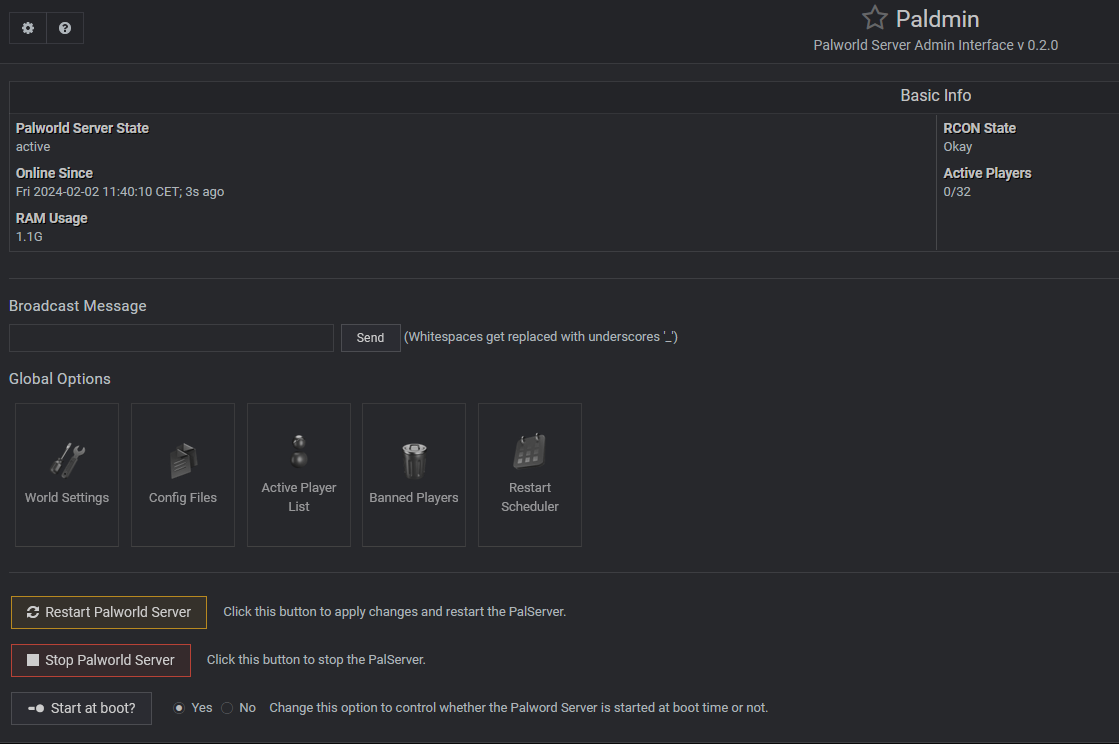
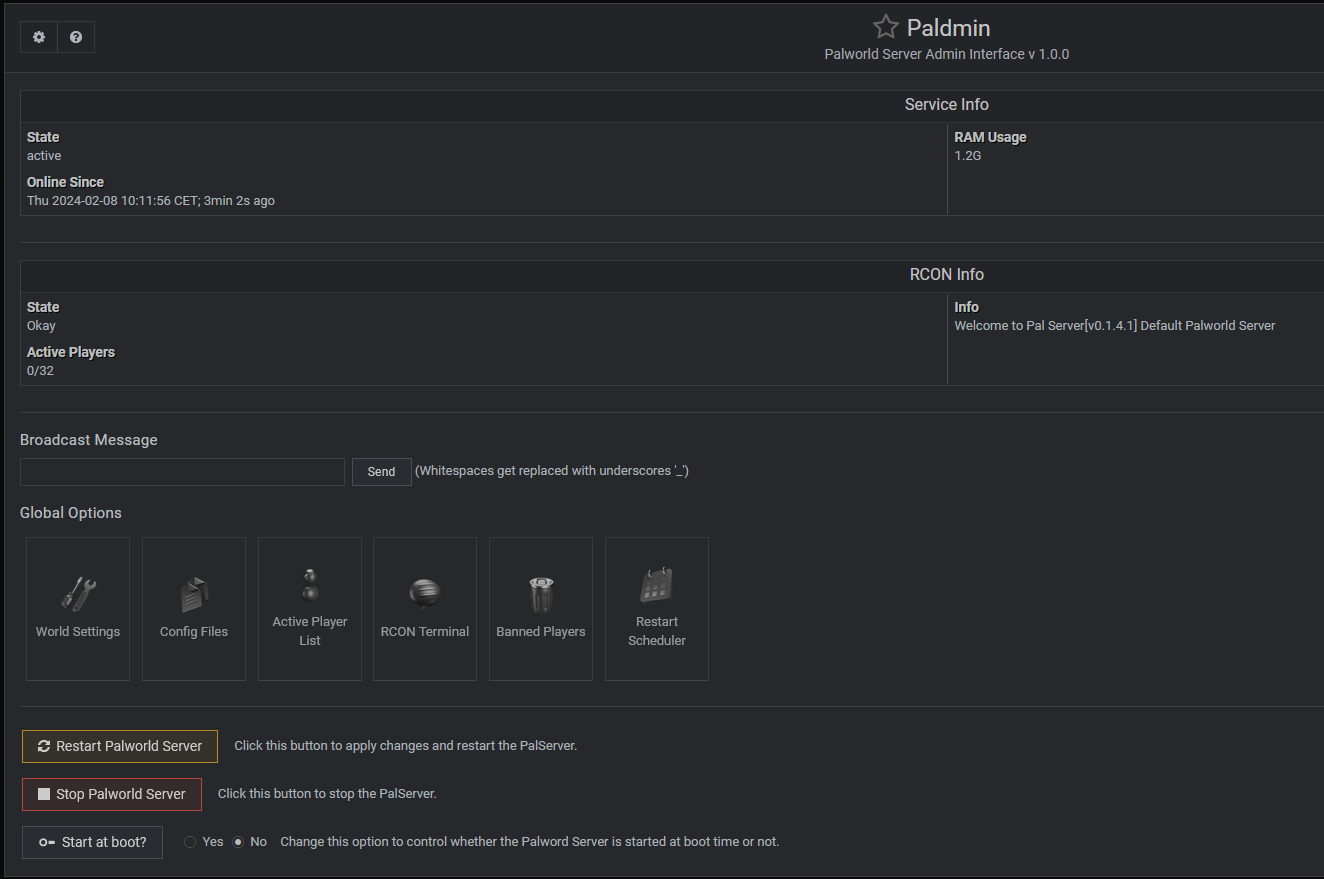
docs: README: Updated readme with update guide
docs: Install: Added new info about module configuration values

docs: Update: New documentation about updating module

diff --git a/docs/install.md b/docs/install.md
@@ -27,7 +27,7 @@ For some functions to work properly, an RCON client is necessary, which the Pald
 For the rcon-cli, we use [this](https://github.com/gorcon/rcon-cli) one from gorcon.
 
 1. Open a SSH Terminal to your server
-2. Login as the same user that hosts the Palworld Server, if you followed the linked tutorial this would be `steam`.
+2. Login as the same user that hosts the Palworld Server, if you followed the linked tutorial this would be `steam` and switch directory to your home `cd ~`.
 3. Go to [releases](https://github.com/gorcon/rcon-cli/releases) and download a suitable linux release:
 	- `wget https://github.com/gorcon/rcon-cli/releases/download/v0.10.3/rcon-0.10.3-amd64_linux.tar.gz`
 	- Unpack tarball `tar -xvf rcon-0.10.3-amd64_linux.tar.gz`
@@ -47,6 +47,8 @@ If you chose a different installation path or your environment changes, you can 
 | Paldmin config file | Webmin Config file for later use | `/etc/paldmin.conf` |
 | Daemon Service | The daemon service which is controlled by the module via `start`, `stop`, `restart` | `palworld.service` |
 | RCON directory | Path to the directory where the `rcon` executable is located | |
+| RCON Address | If set, paldmin will force-enable rcon (ignoring world settings) using this address | `From World Settings`
+| RCON Password | If set, paldmin will force-use the value for rcon password (ignoring world settings) | `From World Settings`
 
 
 

diff --git a/README.md b/README.md
@@ -6,6 +6,7 @@ A [Webmin](https://webmin.com/) module for easy configure and control of a Palwo
 * Basic Info
 * Edit PalWorldSettings.ini (or any other .ini file)
 * Full RCON Support (Kick / Ban Player, Broadcast, List Player, ...)
+	* With Terminal
 * Restart Scheduler with automated Announcements
 
 ![Screenshot of Paldmin](./docs/images/readme_01.PNG)
@@ -16,7 +17,6 @@ A [Webmin](https://webmin.com/) module for easy configure and control of a Palwo
 * Discord Bot Integration 
 * Restart Scheduler with RAM Usage
 * Set Backup Plan
-* Custom RCON command
 * List Player
 	* List / Download .sav File (hex GUID)
 * Savegame / SaveFile Editor
@@ -35,6 +35,10 @@ Please follow the [installation guide](./docs/install.md)
 ## Usage
 
 Please follow the [usage guide](./docs/usage.md)
+
+## Update Module
+
+Please follow the [update guide](./docs/update.md)
 
 ## FAQs
 

diff --git a/docs/update.md b/docs/update.md
@@ -1,0 +1,12 @@
+# Update
+
+> [!IMPORTANT]
+> Currently the module doesn't support _automatic update_ but is planned for future releases. _Manual update_ will delete your _module configuration_ and the _restart schedule_ has to be set again.
+
+## Manual Update
+
+Manual update involves deleting the old Paldmin module and installing a new version.
+
+1. Go to `Webmin` -> `Webmin Configuration` -> `Webmin Modules`
+2. Swap to `Delete` and mark `Paldmin` and press `Delete selected Modules`
+3. Reinstall the module following the steps in the [install guide](./install.md#basic-installation)
